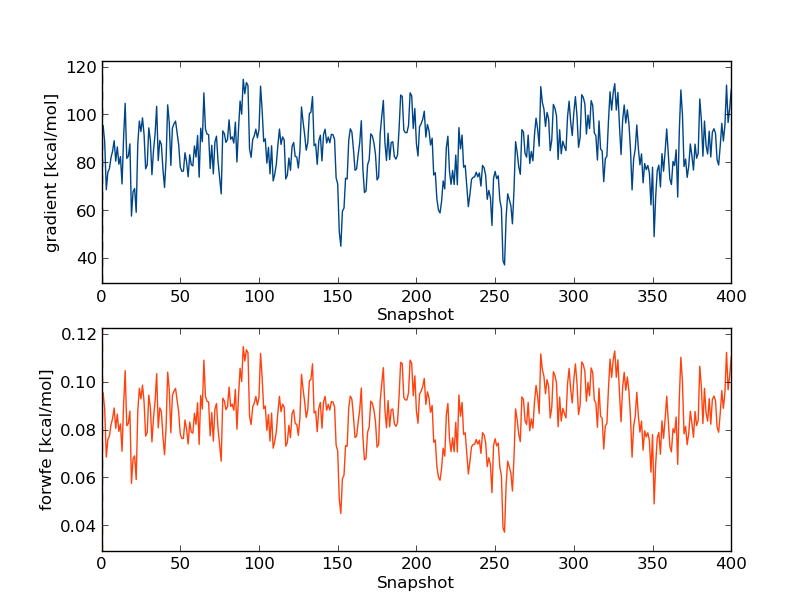
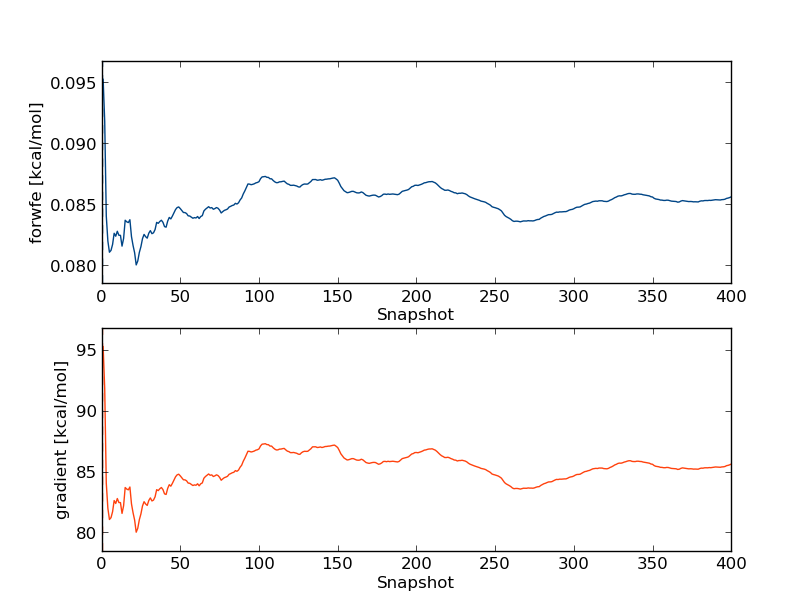
Updates to abs_solvation tutorial (now complete except for one picture!)

diff --git a/tutorial/abs_solvation/abs_lig_solv.html b/tutorial/abs_solvation/abs_lig_solv.html
@@ -9,7 +9,7 @@ In this tutorial we will calculate the solvation free energy of an organic molec
 2-chlorosyringaldehyde is a substituted benzene molecule with multiple functional groups:
 <img src="" alt="" >
 <p>
-You could imagine extending this process to other, drug-like small molecules or ligands of interest.
+You could imagine extending this process to other, drug-like small molecules or ligands of interest.</p>
 <H3>Prerequisites</H3>
 <ul>
 	<li><code>l11.pdb</code> - the structure of the 2-chlorosyringaldehyde molecule ('l11' for short) in PDB format</li>
@@ -20,22 +20,25 @@ However, in many cases you might wish to include multiple starting conformations
 <h3>Simple setup</h3>
 <h5>Setup</h5>
 The simplest way to setup the simulation is by typing the following:
-<p>
 <pre>python2.7 $PROTOMSHOME/protoms.py -s dualtopology -l l11.pdb --absolute</pre>
 <p>
-this sets up a dual topology simulation of the molecule in a box of TIP4P water, perturbing between the full interaction of the molecule with its surroundings and the zero interaction of a dummy atom with its surroundings.<p> The simulation will run 5 m equilibration steps and 40 m production steps for each of the 16 &lambda;-values. Output will be printed to files every 100 k moves and Hamiltonian replica-exchanges between neighbouring &lambda;-values will be attempted every 200 k moves.  
+this sets up a dual topology simulation of the molecule in a box of TIP4P water, perturbing between the full interaction of the molecule with its surroundings and the zero interaction of a dummy atom with its surroundings.<p> The simulation will run 5 m equilibration steps and 40 m production steps for each of the 16 &lambda;-values. Output will be printed to files every 100 k moves and Hamiltonian replica-exchanges between neighbouring &lambda;-values will be attempted every 200 k moves.</p>
 <p>
-<i>Why dual topology?</i>
-<p>For these sorts of absolute free energy calculations (i.e. 'perturbing to nothing'), dual topology simulations will generally provide smoother free energy curves and more precise free energy estimates with smaller errors, particularly at the endpoints of the perturbation.
+<i>Why dual topology?</i></p>
+<p>
+For these sorts of absolute free energy calculations (i.e. 'perturbing to nothing'), dual topology simulations will generally provide smoother free energy curves and more precise free energy estimates with smaller errors, particularly at the endpoints of the perturbation.
 They also have the added advantage that no gas-phase simulations are needed to complete the thermodynamic cycle (see the ProtoMS manual for theory details).
 Although in theory these calculations can also using a single topology approach, by default protoms.py will suggest you use dual topology. Single topology simulations can be set up using the individual scripts in the tools folder if you prefer.</p>
 <i>Why <code>--absolute</code>?</i>
-<p>The <code>-s dualtopology</code> argument tells the script to set up a dual topology free energy simulation and the <code>--absolute</code> argument tells the script that no second ligand exists and that the ligand specified by <code>-l</code> should be perturbed to a dummy particle (nothing).
+<p>
+The <code>-s dualtopology</code> argument tells the script to set up a dual topology free energy simulation and the <code>--absolute</code> argument tells the script that no second ligand exists and that the ligand specified by <code>-l</code> should be perturbed to a dummy particle (nothing).
 Without the <code>--absolute</code>, the script will expect you to input a second ligand!</p>
 <i>How do I know if the setup has been successful?</i>
-<p>Protoms.py will print out a series of information messages if successful, and error messages if there are any problems. 
+<p>
+Protoms.py will print out a series of information messages if successful, and error messages if there are any problems. 
 For more detailed information there is also a log file (called <code>protoms_py.log</code> by default), which includes debug messages and defines the values of any command line flags you give to protoms.py, or their default values if you don't set any.</p>
-<p>However, the safest way to check is to read over the created files and visualise the created system. You can read more about the files that the setup script creates further down on this <a href="#files">page</a>, and you can visualise the system that will be simulated with (for instance) VMD. Note the highlighted dummy atom position in green:
+<p>
+However, the safest way to check is to read over the created files and visualise the created system. You can read more about the files that the setup script creates further down on this <a href="#files">page</a>, and you can visualise the system that will be simulated with (for instance) VMD. Note the highlighted dummy atom position in green:
 <pre>vmd -m l11.pdb l11_dummy.pdb l11_box.pdb
 </pre> <img src="lig_box_dummy.png" width="335" height="321" alt="L11 set up ready for simulation" />
 </p>
@@ -49,7 +52,7 @@ This is most conveniently done on a computer cluster. The calculations take appr
 <p>
 <h5>Equilibration analysis</h5>
 When the simulations are finished we need to analyse the simulation and extract the free energy change associated with perturbing our ligand to nothing. All the results files are conveniently ordered by &lambda;-window in the <code>out_free</code> folder. 
-Let's start by evaluating whether the system is well equilibrated. We can use the calc_series.py script to do this. Type:
+Let's start by evaluating whether the system is well equilibrated. We should first visualise our simulation to check nothing has gone wrong (open <code>out_free/lam-0.000/all.pdb</code> in VMD for example), but we can also use the calc_series.py script to plot the time-dependence of some obvious properties of interest. Type:
 <pre>
 python2.7 $PROTOMSHOME/tools/calc_series.py -f out_free/lam-0.000/results
 </pre>
@@ -69,63 +72,34 @@ And then choose option 5 for displaying the graphs on the same plot, normalised 
 
 <p>
 Clearly the change in the total energy is dominated by the solvent-solvent interactions, while the ligand-solvent interactions remain fairly constant throughout. 
-But what effect does this have on the forward & backward free energy differences, and hence the gradients for our TI calculations? Let's take a look:</p>
-<pre>gradient
-forwfe
-
+But what effect does this have on the forward & backward free energy differences, and hence the gradients for our TI calculations? Let's take a look, 
+but this time we'll evaluate the trends as running averages and use the command line flags for calc_series.py:</p>
+<pre>
+python2.7 $PROTOMSHOME/tools/calc_series.py -f out_free/lam-0.000/results --average -s forwfe gradient
 </pre>
-This time use option 2 for displaying the graphs as sub-plots, as they have very different scales:
+<p>
+This time use option 2 for displaying the graphs as sub-plots, as they have very different scales:</p>
 <img src="gradient_forwfe_lam000.png" width="609" height="459" alt="Gradient (blue) and forwards free energy (red) for lambda=0.000" />
-<p>So we can see that the free energy gradients seem </p>
-
-  Thus, we have to discard very little of the simulation when we compute the free energy.
-<p>Next, we will analyse how effective the &lambda; replica exchange was. Type</p>
-<pre>
-grep "lambda swaps" out_free/lam-0.000/info
-</pre>
-and this will give you the overall acceptance ratio of the &lambda; swaps. It should be around 60% for this perturbation, indicating that the overall effectiveness is acceptable. Next, we will look at individual replicas and see how they exchange &lambda;-value throughout the simulation. This can be done with
-<pre>
-python2.7 $PROTOMSHOME/tools/calc_replicapath.py -f out_free/lam-*/results -p 0.0 0.2 0.8 1.0 -o replica_path_free.png
-</pre>
-<p>to plot the path of the first two &lambda;-values. It should look something like this.<br> <img src="replica_path_free.png" width="33%" height="33%" alt="" /><br> as is clear, these the replicas was not able to traverse the full &lambda;-space within the simulation time. Also the replica starting with &lambda;=1.0, did not exchange a single time throughout the simulation. Hence, the replica exchange was not fully efficient.</p>
-<p>Now, we will estimate the free energy. We will do this both with thermodynamic integration, Bennet's acceptance ratio (BAR) and multi BAR (MBAR). To do this you can type</p>
-<pre>
-python2.7 $PROTOMSHOME/tools/calc_dg.py -d out_free/ -s 10
-</pre>
-<p>A typical result is between 0 and 1 kcal/mol. The experimental hydration free energy of benzene is -0.9 kcal/mol, thus this free-leg should be fairly accurate. Notice that only 10 snapshots are removed from the 400 snapshots when calculating the free energy, because the analysis with <code>calc_series.py</code> indicated that the simulation was equilibrated very much from the start.</p>
-<p>It is important to study the gradient of the TI calculation. It should be smoot in order for the TI to work properly. For the free leg it should look something like this <br>
-<img src="gradients.png" width="%" height="33%" alt="" /></p>
-
-<p>Now, we need to repeat the analysis for the bound leg. When you plot the evolution of the total energy using <code>calc_series.py</code> you often find that it takes a very long time for the total energy to converge. This is because in the bound simulation, the total energy is dominated by solvent-solvent and protein-solvent interactions that has very little effect on the free energy of binding. Thus we should not look at the total energy when investigation convergence, rather we should look at the interaction between the ligand and either protein or solvent.
-<br>
-Type
-<pre>python2.7 $PROTOMSHOME/tools/calc_series.py -f out_bnd/lam-0.000/results
-</pre>
-and when your prompted for the series to analyze, type the following series
-<pre>total
-inter/solvent-solvent/sum
-inter/protein1-solvent/sum
-inter/bnz-solvent/sum
-inter/protein1-bnz/sum
-</pre>
-
-and when asked for the type of plot, simply select option <code>5</code>. The plot should look something like this.<br>
-<img src="results_total_bnd.png" width="33%" height="33%" alt="" /><br>
- You will notice that the interaction energy between the ligand and its surrounding equilibrates very quickly. The computed free energy should be between 9.0 and 10.0 kcal/mol (depending on estimator and equilibration removed). </p>
 <p>
-In a double-decoupling simulation you need to calculate the free energy of adding the harmonic restraint as well as taking into account the symmetry of benzene, &sigma; (which is 12). Therefore, we need to evaluate the following &Delta;<em>G</em><sub>rest</sub> = <em>RT</em> ln &sigma;<em>V</em><sub>sim</sub> / <em>V</em><sub>0</sub>. Where <em>RT</em> is the gas constant multiplied by the absolute temperature and <em>V</em><sub>0</sub>=1660 A<sup>3</sup>. The simulation volume of benzene <em>V</em><sub>sim</sub> can be estimated from (<i>2&pi;RT / k</i>)<sup>3/2</sup> where <i>k</i> is the harmoni spring constant. With a spring constant of 2 kcal / mol, this free energy evaluates to -2.34 kcal/mol. (Note that ProtoMS defines the harmonic restraint using <em>k</em>, rather than 0.5 <em>k</em>, the above formula for the simulation volume is correct for a restraint with 0.5 <em>k</em>)
-<p>The standard binding free energy of benzene can the be estimated from:
-</p>
+So we can see that the free energy gradients seem fairly constant after around 100 snapshots. Hence we'll discard the first 100 snapshots in our free energy calculations.
+At this stage we're ready to begin the free energy analysis. We'll do this by Thermodynamic Integration (TI), Bennett's Acceptance Ratio (BAR) and multistate-BAR (MBAR), 
+so we can compare whether the results are sensitive to the choice of estimator. Type:</p>
+<pre>python2.7 $PROTOMSHOME/tools/calc_dg.py -d out_free/ -s 100</pre>
 <p>
-&Delta;<em>G</em><sub>bind</sub> = &Delta;<em>G</em><sub>free</sub> &ndash; &Delta;<em>G</em><sub>bound</sub> &ndash; &Delta;<em>G</em><sub>rest</sub> 
-</p>
-<p>and it should evaluate to between -6.0 and -6.5 kcal /mol. The experimental value is -5.2 kcal/mol, so we are a little bit off.</p>
-<p>  
+(The <code>-s</code> flag says we should skip the first 100 snapshots as we decided above). You'll see a table of the dV/d&lambda; gradients followed by the total free energies for the perturbation calculated by TI, BAR and MBAR. 
+Remember that the free energies given are for the <i>forwards</i> perturbation to nothing. The hydration free energy is the transfer free energy from vacuum to solvent - to <i>opposite</i> of what we've just simulated.
+So all we need to do is reverse the sign!</p>
+<p>
+We obtained a value of around -8.4 kcal/mol with TI, -7.2 kcal/mol with BAR and -7.1 kcal/mol with MBAR. The experimental hydration free energy for 2-chlorosyringaldehyde is -7.8 kcal/mol, 
+so although we are fairly close it seems that our computed free energy is slightly dependent on what estimator we choose...but to say for sure we would first have to run more repeats, or try out different simulation conditions.</p>
+
 <hr align="center"/>
 <p> 
 <h3>Exploring more options</h3>
-By running <code>protoms.py</code> as above, you accept the standard number of &lambda;-values, simulation length etcs. The values of these parameter were chosen from experience and should work for most systems. However, there are situations when you want to do something else. Here, we will go through some of the many available options. To know about other options you have to read the manuals for the tools or the MC program. You might also have to setup your system by executing the individual tools separately.
-<p>
+Above, we've simply chose to set up our simulation with the default options chosen by protoms.py. If you type:
+<pre>python2.7 $PROTOMSHOME/protoms.py --fullhelp</pre>
+...you can see that there are <i>many</i> different options you can define manually to explore your simulation further! A few examples are given below.
+
 <h5>Running longer simulations</h5>
 There are two arguments that you can invoke to run a longer simulation
 <ul>
@@ -134,78 +108,58 @@ There are two arguments that you can invoke to run a longer simulation
 </ul>  
 by typing for instance
 <pre>
-python2.7 $PROTOMSHOME/protoms.py -s dualtopology -p protein.pdb -l benzene.pdb --absolute --nequil 10E6 --nprod 50E6
+python2.7 $PROTOMSHOME/protoms.py -s dualtopology -l l11.pdb --absolute --nequil 10E6 --nprod 50E6
 </pre>
-you will run 10 m equiliration steps and 50 m production steps (instead of the 5 m and 40 m that is default)
+you will run 10 m equilibration steps and 50 m production steps (instead of the 5 m and 40 m that is default)
 <p>
 <h5>Running with more &lambda;-values</h5>
-The argument that controls the number of &lambda;-values is called <code>--lambdas</code>.
+Earlier we noted our calculated free energies might be dependent on the estimator chosen. How might we decide whether the &lambda;-window spacing is responsible? We can start by tracing the &lambda;-windows visited by each initial replica, e.g.
+<pre>python2.7 $PROTOMSHOME/tools/calc_replicapath.py -f out_free/lam-*/results -p 1.000 0.800 0.533 0.200 0.000</pre>
+<p>You'll see a plot something like this created as <code>replica_path.png</code></p>
+<img src="replica_path.png" width="400" height="300" alt="Path of initial replicas" />
+<p>See how the replicas don't traverse the whole of &lambda;-space? Perhaps we could run for longer, or perhaps we could add more windows, and see if the exchange was improved and whether this improved the agreement of our estimators.
+The argument that controls the number of &lambda;-values is called <code>--lambdas</code>.</p>
 <p>
-by typing for instance
-<pre>python2.7 $PROTOMSHOME/protoms.py -s dualtopology -p protein.pdb -l benzene.pdb --absolute --lambdas 24</pre>
+By typing (for instance):
+<pre>python2.7 $PROTOMSHOME/protoms.py -s dualtopology -l l11.pdb --absolute --lambdas 24</pre>
 
-you will initiate 24 &lambda;-values rather than default 16. You can also give individual &lambda;-values to the argument. For instance
+you will initiate 24 &lambda;-values rather than default 16. You can also give individual &lambda;-values to the argument. For instance:
 <p>
-<pre>python2.7 $PROTOMSHOME/protoms.py -s dualtopology -p protein.pdb -l benzene.pdb --absolute --lambdas 0.000 0.033 0.067 0.133 0.200 0.267 0.333 0.400 0.467 0.533 0.600 0.667 0.733 0.800 0.867 0.933 0.967 1.000</pre>
+<pre>python2.7 $PROTOMSHOME/protoms.py -s dualtopology -l l11.pdb --absolute --lambdas 0.000 0.033 0.067 0.133 0.200 0.267 0.333 0.400 0.467 0.533 0.600 0.667 0.733 0.800 0.867 0.933 0.967 1.000</pre>
 <p> 
 will add two new &lambda;-values at 0.033 and 0.967 to the 16 created by default.
 <p>
 <h5>Running independent repeats</h5>
-Usually it is wise to run several indepent repeats of your calculation to check for convergence and to obtain a good estimate of the statistical uncertainty. The argument that controls the number of independent repeats is called <code>--repeats</code> or just <code>-r</code>.
+Usually it is wise to run several independent repeats of your calculation to check for convergence and to obtain a good estimate of the statistical uncertainty. The argument that controls the number of independent repeats is called <code>--repeats</code> or just <code>-r</code>.
 <p>
-by typing for instance
-<pre>python2.7 $PROTOMSHOME/protoms.py -s dualtopology -p protein.pdb -l benzene.pdb --absolute -r 5</pre>
-you will create 5 input files for the bound leg and 5 input files for the free leg. Therefore, you also need to execute ProtoMS 10 times with the different input files. The output will be in 10 different folders, e.g. <code>out1_bnd</code> and <code>out2_bnd</code>.
+by typing for instance:
+<pre>python2.7 $PROTOMSHOME/protoms.py -s dualtopology -l l11.pdb --absolute -r 5</pre>
+you will create 5 input files that will create 5 output folders. But remember, you also need to execute ProtoMS 5 times with the different input files. The output folders will be named e.g. <code>out1_free</code>,<code>out2_free</code>...
 <p>
 </p>
-<h5><a name="restraint">Optimizing the harmonic restraint</a></h5>
-The harmonic restraint added by <code>protoms.py</code> is by default 1 kcal/mol/A<sup>2</sup>. It can sometimes be necessary to optimize it so that the free energy is not affected by the magnitude of the restraint. This can be done by running a short unrestrained simulation and estimate the force constant from the root mean square deviation by applying the equipartition theorem. 
-<p>To setup the short unrestrained simulation, first make a separate folder for the simulation. Then you can type</p>
-<pre>python2.7 $PROTOMSHOME/protoms.py -s sampling -p protein.pdb -l benzene.pdb --nprod 500E3 --nequil 0 --dumpfreq 1E3
-
-$PROTOMSHOME/protoms3 run_bnd.cmd
-</pre> 
-this 50 k simulation should only take about five minutes to execute. The simulation output can be found in <code>out_bnd</code>. 
-<p>To calculate the RMSD and estimate an appropriate force constant, type
-</p>
-<pre>python2.7 $PROTOMSHOME/tools/calc_rmsd.py -i benzene.pdb -f out_bnd/all.pdb -l BNZ -a C4
-</pre>
-where <code>BNZ</code> is the residue name of the ligand, and <code>C4</code> is the atom the restraint is applied to. The output should be something like this.  
-<pre>The RMSD of the atom c4 is 0.898 A
-
-This corresponds to a spring constant of 2.205 kcal/mol/A2
-(to use this as an harmonic restraint in ProtoMS, specify 1.102)
-
-</pre>
-and we can see that the default force constant is appropriate. The force consant is estimated from <i>k</i> = 3 <i>RT</i> / &lt;RMSD<sup>2</sup>&gt;, where <i>R</i> and <i>T</i> are the gas constant and the absolute temperature, respectively. Notice that in the ProtoMS input you specify 1/2<i>k</i> rather than <i>k</i>.
+<h5>Running with a different water model</h5>
+<p>By default, protoms.py solvates systems using the TIP4P water model. Simulations can also be performed with the TIP3P model by using the <code>--watmodel</code> flag:</p>
+<pre>python2.7 $PROTOMSHOME/protoms.py -s dualtopology -l l11.pdb --absolute --watmodel tip3p</pre>
+Alternatively you may wish to solvate the solute using a different pre-equilibrated water box, or create a box of different dimensions. This can be done using the individual solvate script in the <a href="#tools">tools</a> section.
 <p>
 <hr align="center"/>
 <p> 
 <h3><a name="files">Files created by the setup script</a></h3>
-<h5>Files describing benzene</h5>
+<h5>Files describing the solute</h5>
 <ul>
-	<li><code>benzene.prepi </code> = the z-matrix and atom types of benzene in Amber format</li>
-	<li><code>benzene.frcmod </code> =  additional parameters not in GAFF</li>
-	<li><code>benzene.zmat</code> = the z-matrix of benzene used to sample it in the MC simulation</li>
-	<li><code>benzene.tem</code> = the complete template (force field) file for the ligand in ProtoMS format</li>
+	<li><code>l11.prepi </code> = the z-matrix and atom types of l11 in Amber format (created by Amber)</li>
+	<li><code>l11.frcmod </code> =  additional parameters not in GAFF (created by Amber)</li>
+	<li><code>l11.zmat</code> = the z-matrix of benzene used to sample it in the MC simulation</li>
+	<li><code>l11.tem</code> = the complete template (force field) file for the ligand in ProtoMS format</li>
 </ul>
-You can read more about the setup of ligands here.
-<h5>Files describing the protein</h5>
-<ul>
-	<li><code>protein_scoop.pdb</code> = the truncated protein structure</li>
-</ul>
-You can read more about the setup of proteins here.
-<p> 
 <h5>Simulation specific files</h5>
 <ul>
-	<li><code>benzene_box.pdb</code> = the box of water solvating benzene in the free leg simulation</li>
-	<li><code>water.pdb</code> = the cap of water solvating the protein-ligand system in the bound leg simulation</li>
-	<li><code>benzene_dummy.pdb</code> = the dummy particle that benzene will be perturbed into</li>
-	<li><code>bnz-dummy.tem</code> = the combined template file for benzene and the dummy, used only in this simulation</li>
-	<li><code>run_bnd.cmd</code> = the ProtoMS input file for the bound-leg simulation</li>
-	<li><code>run_free.cmd</code> = the ProtoMS input file for the free-leg simulation</li>
+	<li><code>l11_box.pdb</code> = the box of water solvating l11 in the simulation</li>
+	<li><code>l11_dummy.pdb</code> = the dummy particle that l11 will be perturbed into</li>
+	<li><code>l11-dummy.tem</code> = the combined template file for l11 and the dummy, used only in this simulation</li>
+	<li><code>run_free.cmd</code> = the ProtoMS input file for the simulation</li>
 </ul>
-You can read more about the input files in the ProtoMS manual. However, some sections of it is worth mentioning here
+You can read more about the ProtoMS input files in the ProtoMS manual. However, some sections of it are worth mentioning here:
 <p>
 <pre>
 dualtopology1 1 2 synctrans syncrot
@@ -214,99 +168,61 @@ softcore2 solute 2
 softcoreparams coul 1 delta 0.2 deltacoul 2.0 power 6 soft66
 </pre>
 <br>
-this section, which exist in both input files setup the dual topology simulation with appropriate soft-core parameters. It could be worth trying to optimize the soft-core parameters if your simulation is not performing well. 
+this section sets up the dual topology simulation with appropriate soft-core parameters. It could be worth trying to optimize the soft-core parameters if your simulation is not performing well. 
 <p>  
 <pre>
 lambdare 200000 0.000 0.067 0.133 0.200 0.267 0.333 0.400 0.467 0.533 0.600 0.667 0.733 0.800 0.867 0.933 1.000
 </pre>
 <br>
-this section, which exists in both input file setup the &lambda;-replica exchange. You can add more &lambda;-values manually if there are regions where the simulation is not performing well.
-<p>
-<pre>
-chunk id add 1 solute 1 C4 BNZ
-chunk restraint add 1 cartesian harmonic 27.837 6.921 3.569 1
-chunk id add 2 solute 2 C1 DDD
-chunk restraint add 2 cartesian harmonic 26.911 6.126 4.178 1
-</pre> 
-<br>
-this section, which is unique for the bound-leg simulation, restrains the benzene and the dummy particle to the binding site with harmonic restraints. It could be worth trying to optimize the weight of the restraint or try another type of restraint if your simulation is not performing well. This is discussed <a href="#restraint">here</a>.
-<p>
+this section sets up the &lambda;-replica exchange every 200000 steps. You can add more &lambda;-values manually if there are regions where the simulation is not performing well.
 <hr align="center"/>
 <p> 
 <h3><a name="tools">Setting up the simulation with individual tools</a></h3>
 In this advanced section we will go through the setup of the simulations step-by-step using individual setup scripts rather than <code>protoms.py</code>
-<h5>Setting up the free leg</h5>
-We will start setting up the free-leg simulation. However, it should be noted that some of the files created in this section will also be used in the bound-leg simulation.
+<h5>Setting up the solute</h5>
+We will start setting up the solute.
 <p>
-<li>First we need to make sure that the very first line of the <code>benzene.pdb</code> contains a directive, telling ProtoMS the name of the solute. The line should read <code>HEADER BNZ</code> and can be added by typing
+<li>First we need to make sure that the very first line of the <code>l11.pdb</code> contains a directive, telling ProtoMS the name of the solute. The line should read <code>HEADER L11</code> and can be added using whichever editor you feel most comfortable with. For example:
 <p>
-<pre>sed -i "1iHEADER BNZ" benzene.pdb</pre>
+<pre>sed -i "1iHEADER L11" l11.pdb</pre>
 <p>
-<li>Thereafter, we will create the force field for the benzene molecule using AmberTools. The force field will be GAFF with AM1-BCC charge. Type
+<li>Thereafter, we will create the force field for the l11 molecule using AmberTools, the GAFF force field and AM1-BCC charges. Type:
 <p>
-<pre>python2.7 $PROTOMSHOME/tools/ambertools.py -f benzene.pdb -n BNZ</pre>
-<P>
-and this will execute the AmberTools programs <code>antechamber</code> and <code>parmchk</code>, creating the files <code>benzene.prepi</code> and <code>benzene.frcmod</code>, respectively. 
+<pre>python2.7 $PROTOMSHOME/tools/ambertools.py -f l11.pdb -n L11</pre>
 <p>
-<li>These files are in Amber format and in order to use them in ProtoMS we need to reformat them into a ProtoMS template file. This file will also contain a z-matrix that describes how benzene will be sampled during the simulation. To do this, you can type
+This will execute the AmberTools programs <code>antechamber</code> and <code>parmchk</code>, creating the files <code>l11.prepi</code> and <code>l11.frcmod</code>, respectively. If the ligand was charged, we could specify that here using the <code>-c</code> flag.
 <p>
-<pre>python2.7 $PROTOMSHOME/tools/build_template.py -p benzene.prepi -f benzene.frcmod -o benzene.tem -n BNZ</pre>
+<li>These files are in Amber format and in order to use them in ProtoMS we need to reformat them into a ProtoMS template file. This file will also contain a z-matrix that describes how l11 will be sampled during the simulation. To do this, you can type
 <p>
-this will creates the files <code>benzene.tem</code> containing the ProtoMS template file and <code>benzene.zmat</code>. It is a good idea to check this files to see if the script has defined the molecule properly.
+<pre>python2.7 $PROTOMSHOME/tools/build_template.py -p l11.prepi -f l11.frcmod -o l11.tem -n L11</pre>
 <p>
-<li>The next thing we will do is to solvate the benzene molecule in a box of TIP4P water molecules. Type
+This will create the files <code>l11.tem</code> (the ProtoMS template file) and <code>l11.zmat</code> (the ProtoMS z-matrix). It is a good idea to check the latter to see if the script has defined the molecule properly.
 <p>
-<pre>python2.7 $PROTOMSHOME/tools/solvate.py -b $PROTOMSHOME/data/wbox_tip4p.pdb -s benzene.pdb -o benzene_box.pdb</pre>
+<li>The next thing we will do is to solvate the solute in a box of TIP4P water molecules. Type:
+<p>
+<pre>python2.7 $PROTOMSHOME/tools/solvate.py -b $PROTOMSHOME/data/wbox_tip4p.pdb -s l11.pdb -o l11_box.pdb</pre>
 <p> 
-this will solvate benzene using standard settings, i.e. it will be 10 A between the solute and the edge of the box. A pre-equilibrated box of TIP4P water molecules located in <code>$PROTOMSHOME/data/</code> is used. The box is written to the file <code>benzene_box.pdb</code>.
+As standard this will create a box of mimimum 10 A distance between the solute and the edge of the box. The padding of the box from the solute can be increased using the <code>--padding</code> or <code>-p</code> option.
+Likewise a different pre-equilibrated box can be used by specifying the location using the <code>-b</code> flag. The output is written to the file <code>l11_box.pdb</code>.
 <p> 
-<li>Now we have setup benzene, but to complete the setup we need the dummy particle that benzene will be perturbed into. This is created by typing
+<li>Now we have setup l11, but to complete the setup we need the dummy particle that l11 will be perturbed into. This is created by typing:
 <p> 
-<pre>python2.7 $PROTOMSHOME/tools/make_dummy.py -f benzene.pdb -o benzene_dummy.pdb</pre>
+<pre>python2.7 $PROTOMSHOME/tools/make_dummy.py -f l11.pdb -o l11_dummy.pdb</pre>
 <p> 
-creating <code>benzene_dummy.pdb that contains the particle.</code>
+This creates <code>l11_dummy.pdb</code> that just contains the new particle.
 <p>
-<li>Finally, we need to combine the template file of benzene with the template file of the dummy particle. Type
+<li>Finally, we need to combine the template file of l11 with the template file of the dummy particle. Type
 <p> 
-<pre>python2.7 $PROTOMSHOME/tools/merge_templates.py -f benzene.tem $PROTOMSHOME/data/dummy.tem -o bnz-dummy.tem</pre>
+<pre>python2.7 $PROTOMSHOME/tools/merge_templates.py -f l11.tem $PROTOMSHOME/data/dummy.tem -o l11-dummy.tem</pre>
 <p> 
-creating <code>bnz-dummy.tem</code>. The template file of the dummy particle is located in <code>$PROTOMSHOME/data/</code>.
+creating <code>l11-dummy.tem</code>. The template file of the dummy particle is located in <code>$PROTOMSHOME/data/</code>.
 <p>
-Now we have all the files to run the free-leg of the simulation. The input file for ProtoMS will be created when we have prepared to bound-leg.
-<h5>Setting up the bound leg</h5>
-<li>First, we will change the name of atom and residue names in the protein PDB-file such that they agree with the ProtoMS naming convention. Type
-<p> 
-<pre>python2.7 $PROTOMSHOME/tools/convertatomnames.py -p protein.pdb -o protein_pms.pdb -s amber -c $PROTOMSHOME/data/atomnamesmap.dat</pre>
-<p> 
-The converted structure will be in <code>protein_pms.pdb</code>. This execution assumes that the Amber naming convention is used in <code>protein.pdb</code>. 
-<p> 
-<li>We have crystallographic water in the protein structure and we need to convert them to the water model we will be using in the simulation (TIP4P). This can be done by 
-<p> 
-<pre>python2.7 $PROTOMSHOME/tools/convertwater.py -p protein_pms.pdb -o protein_pms_t4p.pdb</pre>
-<p>
-creating <code>protein_pms_t4p.pdb</code>. 
-<p>
-<li>Next step is to truncate to protein, creating a scoop. This will enable us to solvate the protein is a droplet and thereby reducing the number of simulated particles. The command is
-<p>
-<pre>python2.7 $PROTOMSHOME/tools/scoop.py -p protein_pms_t4p.pdb -l benzene.pdb -o protein_scoop.pdb</pre> 
-<p> 
-The protein scoop is centred on the benzene molecule and all residue further than 20 A are cut-away. The scoop is written to <code>protein_scoop.pdb</code>
-<p>
-<li>As a final step, we will solvate the protein and ligand in a droplet of TIP4P water molecules. To this, type:
-<p> 
-<pre>python2.7 $PROTOMSHOME/tools/solvate.py -b $PROTOMSHOME/data/wbox_tip4p.pdb -s benzene.pdb -pr protein_scoop.pdb -o water.pdb -g droplet</pre> 
-<p>
-this will create a droplet with 30 A radius centred on the benzene molecule. The droplet is written to <code>water.pdb</code>
-<p> 
-<li> The <code>solvate.py</code> script adds the crystallographic waters from the scoop to the droplet. Therefore, we need to remove them from the scoop PDB-file.<p> 
-<pre>sed -i -e "/T4P/d" -e "/TER/d" protein_scoop.pdb</pre>
-<p>
-Now we have all the files need to run the simulation. As you noticed, this step-by-step procedure create a few files that <code>protoms.py</code> does not generate.
+Now we have all the files except the ProtoMS input file itself. As you may have noticed, this step-by-step procedure create a few files that <code>protoms.py</code> does not generate, but these often contain logs of the exact procedures performed, so they may be useful to you.
 <h5>Making ProtoMS input files</h5>
 To make the input files for ProtoMS type
 <p>
-<pre>python2.7 $PROTOMSHOME/tools/generate_input.py -s dualtopology -p protein_scoop.pdb -l benzene.pdb benzene_dummy.pdb -t bnz-dummy.tem -pw water.pdb -lw benzene_box.pdb --absolute -o run</pre>
+<pre>python2.7 $PROTOMSHOME/tools/generate_input.py -s dualtopology -l l11.pdb l11_dummy.pdb -t l11-dummy.tem -lw l11_box.pdb --absolute -o run</pre>
 <p> 
-creating <code>run_bnd.cmd</code> and <code>run_free.cmd</code>.
+creating <code>run_free.cmd</code>.
 </BODY>
 </HTML>
